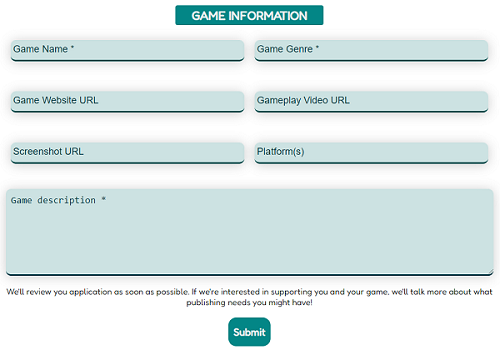
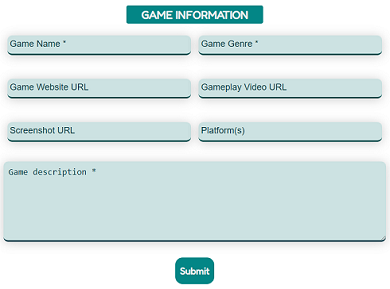
Update README file

diff --git a/README.md b/README.md
@@ -14,7 +14,6 @@
 * [Features](#features)
     * [Existing Features](#existing-features)
     * [Future Features](#future-features)
-
 * [Testing](#testing)
 * [Technologies Used](#technologies-used)
 * [Deployment](#deployment)
@@ -90,6 +89,11 @@ Included on both pages, allows user to easily navigate between all sections on t
 The form is divided into two sections with h3 headings in the same style as the h2 headings in the about section - Introduction and Game Information.
 
 ![Apply Page](assets/readme-images/form_intro.png) 
+![Apply Page](assets/readme-images/form_gameinfo.png) 
+
+* Proof form working correctly:
+
+![Submit Form](assets/readme-images/form_submit.png)
 
 
 
@@ -125,12 +129,13 @@ If Rabbithole wasn't a fictional company, I'd add features like:
   * CSS3
 
 ### Frameworks, Libraries & Programs Used
-  * Google Fonts
-  * Fontawesome
-  * GitHub
+  * Google Fonts - To find and import fonts used on the website
+  * Fontawesome - To add icons
+  * GitHub - To save and store files for the website.
   * GitPod
-  * Vistual Studio Code
-  * [tinyPNG](https://tinypng.com/)
+  * Vistual Studio Code(desktop) - For testing and experimenting with code and different layouts. 
+  * [tinyPNG](https://tinypng.com/) - For optimizing images.
+  * Procreate - To create logo
 
 ---
 
@@ -146,3 +151,34 @@ This website was deployed to GitHud pages.The steps to deploy are as follows:
 ---
 
 ## Credits
+
+### Code
+
+#### .break Elements
+  * The idea of creating these to force a new row was taken from this [article](https://tobiasahlin.com/blog/flexbox-break-to-new-row/)
+
+#### Footer
+  * Social media links code was taken from CIs [Love Running Project](https://github.com/Code-Institute-Org/love-running-2.0)
+
+#### Hr elements
+  * The css code for the fading look of hr elements was taken from [here](https://css-tricks.com/examples/hrs/)
+
+### Media
+
+#### Images
+  * Header and games section bg image - found on [pixabay](https://pixabay.com/) 
+
+#### Card Art
+  * 'Cardverse' Art - from [OpenGameArt](https://opengameart.org/content/chess-and-cards-game-girl)
+  * 'Speck in Space' Art - from [freepik](http://www.freepik.com): Designed by upklyak.
+
+  The rest of the art were found on pinterest, i will provide direct links to the art but also links to the artists art portfolios.
+  * 'Legend of the Skies' - from [link](https://twitter.com/shant_elife/status/1309414165996593153)
+    * Art made by Anton Fadeev[@Artstation](https://www.artstation.com/shant)
+  * 'Witches' brew of life' - from [link](https://www.artstation.com/artwork/XnaNVY)
+    *  Art made by Christina Barton[@Artstation](https://www.artstation.com/chrissabug)
+  * 'No-Gravity' - from [link](https://rikelee.cgsociety.org/ly9w/emergency)
+    * Art made by rikelee@[cgsociety](https://rikelee.cgsociety.org/)
+  * 'Grimwood' - from [link](https://www.deviantart.com/tacosauceninja/art/Woods-Of-Suicide-572712383)
+    * Art made by TacoSauceNinja@[deviantart](https://www.deviantart.com/tacosauceninja)
+
